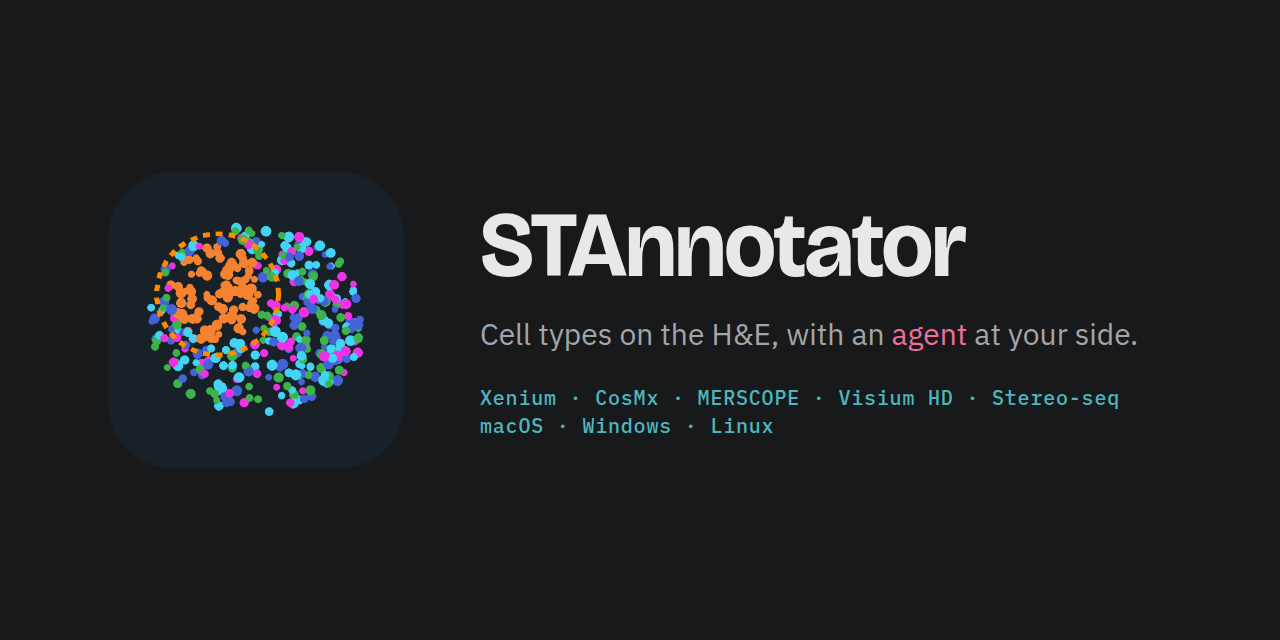
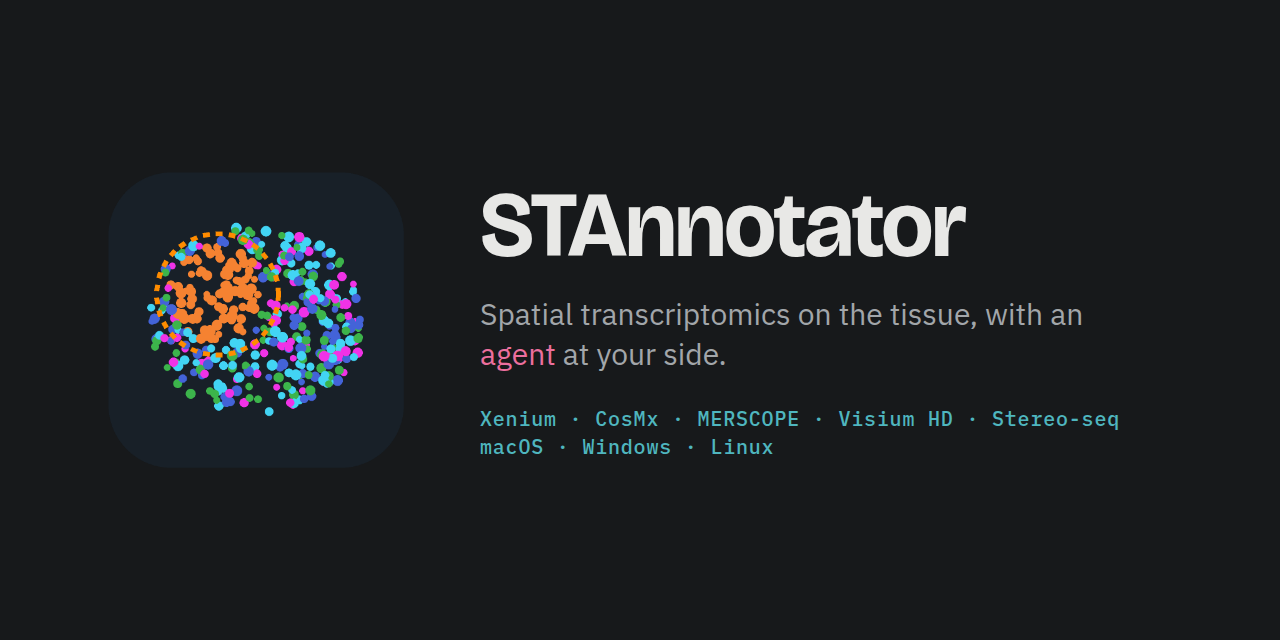
Website and README: the headline covers the whole tool, not only cell types (Spatial transcriptomics on the tissue, with an agent at your side); the lede lists registration, cell types, regions, niches, cell-cell communication and comparisons across slices; descriptions, footer and social preview to

diff --git a/docs/index.html b/docs/index.html
@@ -5,11 +5,11 @@
 <meta name="viewport" content="width=device-width, initial-scale=1, viewport-fit=cover">
 <title>STAnnotator</title>
 <meta name="claude:viewport-fit-sides" content="cover">
-<meta name="description" content="Cell type annotation and analysis of spatial transcriptomics on the H&E image, with an AI agent at your side. Free download for macOS and Windows.">
+<meta name="description" content="Spatial transcriptomics on the tissue image, from registration and cell types to niches and cell-cell communication, with an AI agent at your side. Free download for macOS and Windows.">
 <link rel="icon" type="image/png" href="assets/favicon.png">
 <link rel="apple-touch-icon" href="assets/apple-touch-icon.png">
 <meta property="og:title" content="STAnnotator">
-<meta property="og:description" content="Cell types on the H&E, with an agent at your side. Free download for macOS and Windows.">
+<meta property="og:description" content="Spatial transcriptomics on the tissue, with an agent at your side. Free download for macOS and Windows.">
 <meta property="og:image" content="https://www.caokai.site/STAnnotator/assets/social-preview.png">
 <meta name="twitter:card" content="summary_large_image">
 <link rel="preconnect" href="https://fonts.googleapis.com">
@@ -284,11 +284,12 @@ footer a { color: var(--muted); }
   <section class="hero">
     <div class="wrap">
       <div class="hero-grid">
-        <h1>Cell types on the H&amp;E, with an <em>agent</em> at your side.</h1>
+        <h1>Spatial transcriptomics on the tissue, with an <em>agent</em> at your side.</h1>
         <div class="lede-wrap">
-          <p class="lede">STAnnotator annotates and analyzes spatial transcriptomics (Xenium, CosMx, MERSCOPE, Visium HD,
-            Stereo-seq and more) directly on the tissue image. Tell it what you know in plain sentences. Every change
-            the agent proposes waits in the app until you click Accept.</p>
+          <p class="lede">STAnnotator takes spatial transcriptomics (Xenium, CosMx, MERSCOPE, Visium HD, Stereo-seq and
+            more) from import to results on the tissue image: registration, cell types, regions, niches, cell–cell
+            communication and comparisons across slices. Tell it what you know in plain sentences. Every change the
+            agent proposes waits in the app until you click Accept.</p>
           <div class="cta">
             <a class="btn btn-primary" href="#download" data-dmg data-os="mac">
               <svg width="18" height="18" viewBox="0 0 24 24" fill="none" stroke="currentColor" stroke-width="2" stroke-linecap="round" stroke-linejoin="round" aria-hidden="true"><path d="M12 3v12m0 0-5-5m5 5 5-5M4 21h16"></path></svg>
@@ -678,7 +679,7 @@ uv pip install --python .venv/bin/python -e .
 
 <footer>
   <div class="wrap">
-    <span>STAnnotator <span data-version>0.2.41</span> · cell type annotation for spatial transcriptomics · macOS and Windows</span>
+    <span>STAnnotator <span data-version>0.2.41</span> · spatial transcriptomics on the tissue image · macOS and Windows</span>
     <nav aria-label="Links">
       <a href="https://github.com/caokai1073/STAnnotator">Source code</a>
       <a href="https://github.com/caokai1073/STAnnotator/blob/main/docs/GUIDE.md">User guide</a>

diff --git a/README.md b/README.md
@@ -10,8 +10,9 @@
   <a href="https://www.caokai.site/STAnnotator/">Website</a>
 </p>
 
-Cell type annotation and analysis of spatial transcriptomics (Xenium, CosMx, MERSCOPE, Visium HD, Stereo-seq, …) on
-the H&E image, with an AI agent at your side.
+Spatial transcriptomics (Xenium, CosMx, MERSCOPE, Visium HD, Stereo-seq, …) on the tissue image, from registration
+and cell types to regions, niches, cell-cell communication and comparisons across slices, with an AI agent at your
+side.
 
 - **Annotate** from a marker gene list, a labeled single-cell reference, or an existing annotation.
 - **Refine in plain language**: priors ("epithelial cells are only in the mucosa"), corrections, re-clustering.
